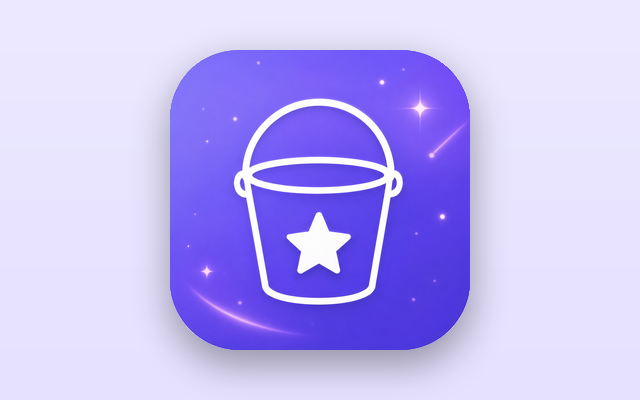
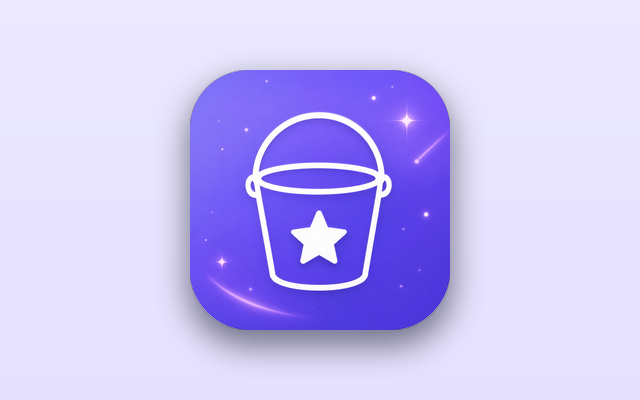
カナエル: 一覧サムネのアイコンを他と同じ大きさに調整
自作サムネはアイコンが大きめ（全体的に他より大きく見えた）だったため、
make_app_images.py で標準規格（260px中央配置・淡ラベンダー背景を維持）に再生成。
同名差し替えのため apps/index/categories のサムネ参照に ?v=2 を付与。

Changed region(s): [[0.25, 0.12, 0.75, 0.96]]

diff --git a/apps.html b/apps.html
@@ -131,7 +131,7 @@
         </a>
 
         <a href="apps/bucket-list.html" class="app-card" data-category="life">
-          <div class="app-thumb"><img src="images/bucket-list-thumb.png" alt="カナエル（Canael）" /></div>
+          <div class="app-thumb"><img src="images/bucket-list-thumb.png?v=2" alt="カナエル（Canael）" /></div>
           <div class="app-body">
             <div class="app-meta"><span class="badge life">ライフスタイル</span></div>
             <h3>カナエル（Canael）</h3>

diff --git a/categories.html b/categories.html
@@ -155,7 +155,7 @@
         </a>
 
         <a href="apps/bucket-list.html" class="app-card" data-category="life">
-          <div class="app-thumb"><img src="images/bucket-list-thumb.png" alt="カナエル（Canael）" /></div>
+          <div class="app-thumb"><img src="images/bucket-list-thumb.png?v=2" alt="カナエル（Canael）" /></div>
           <div class="app-body">
             <div class="app-meta"><span class="badge life">ライフスタイル</span></div>
             <h3>カナエル（Canael）</h3>

diff --git a/index.html b/index.html
@@ -147,7 +147,7 @@
         </a>
 
         <a href="apps/bucket-list.html" class="app-card" data-category="life">
-          <div class="app-thumb"><img src="images/bucket-list-thumb.png" alt="カナエル（Canael）" /></div>
+          <div class="app-thumb"><img src="images/bucket-list-thumb.png?v=2" alt="カナエル（Canael）" /></div>
           <div class="app-body">
             <div class="app-meta"><span class="badge life">ライフスタイル</span></div>
             <h3>カナエル（Canael）</h3>
